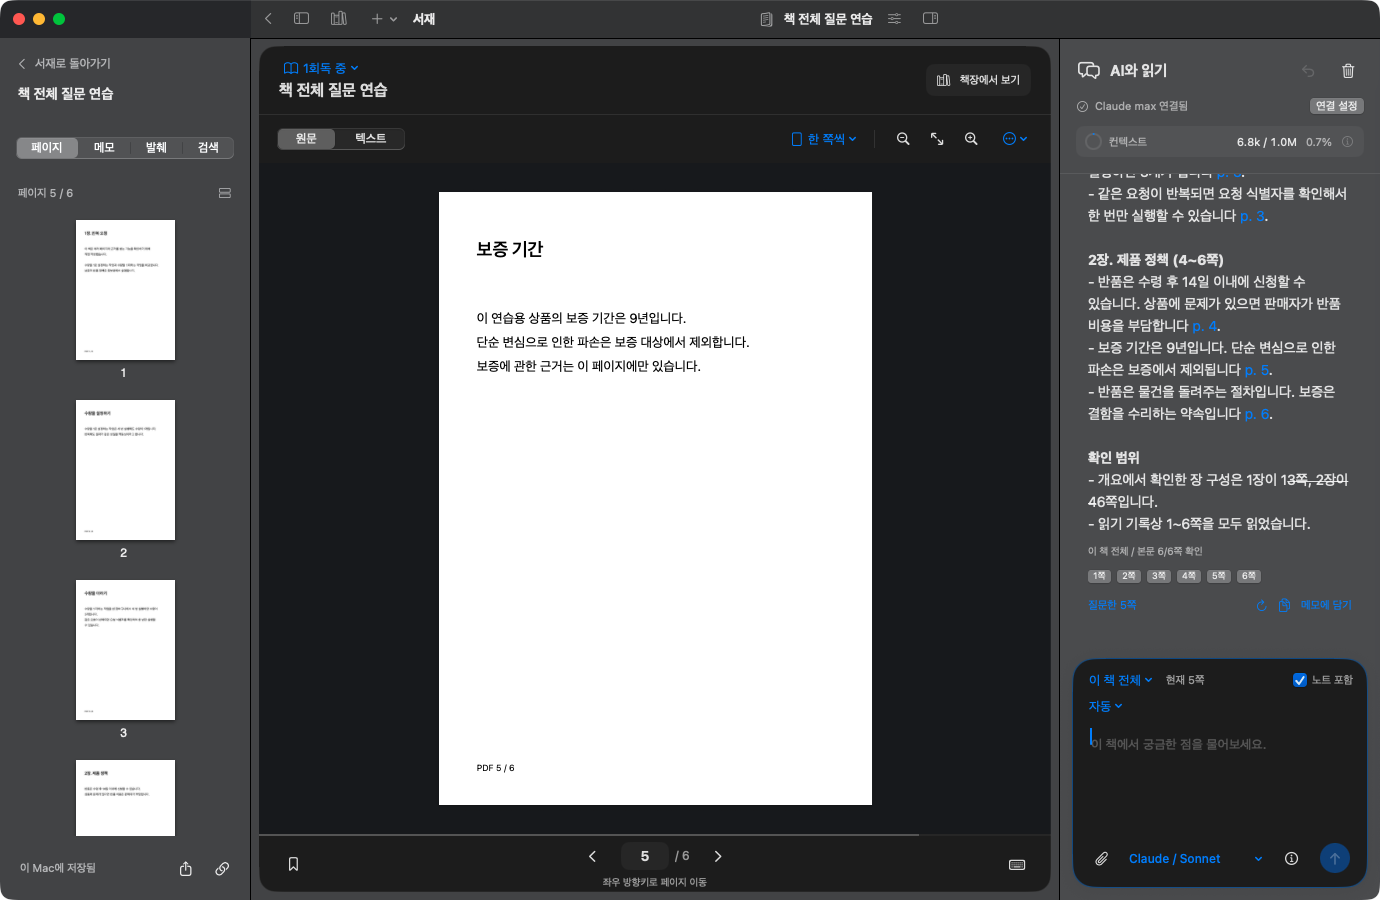
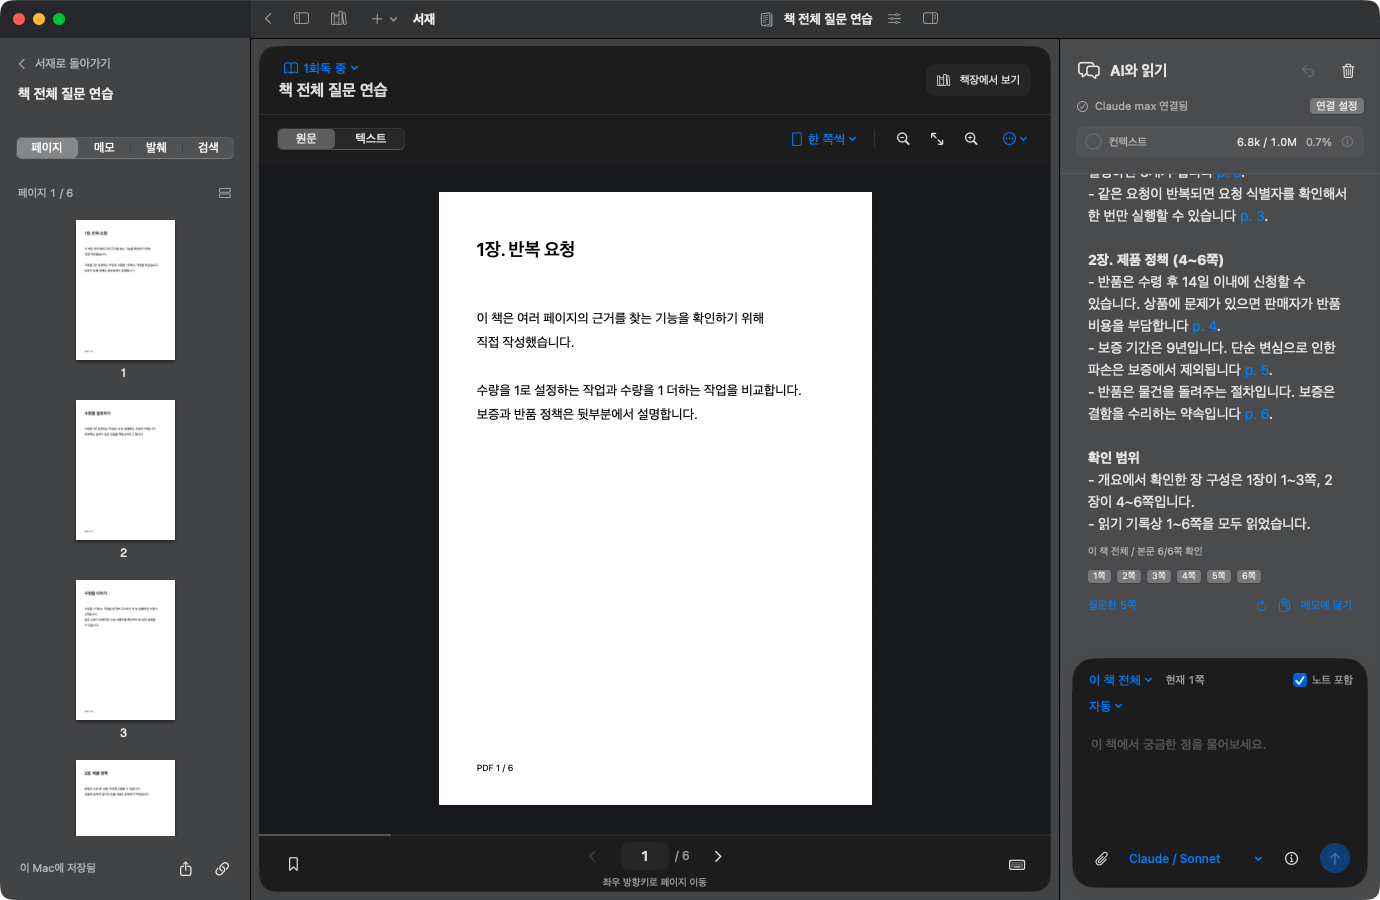
fix(chat): preserve numeric ranges and complete book tool results

diff --git a/Sources/BookshelfCore/ChatContent.swift b/Sources/BookshelfCore/ChatContent.swift
@@ -10,6 +10,19 @@ public struct ChatContentBlock: Identifiable, Equatable, Sendable {
 
 /// Preserve fenced content before inline Markdown processing can discard its boundaries.
 public enum ChatContent {
+    /// Foundation Markdown treats paired single tildes as strikethrough, including
+    /// Korean page ranges spanning paragraphs. Keep numeric ranges literal.
+    public static func markdownProse(_ text: String) -> String {
+        guard let regex = try? NSRegularExpression(pattern: #"(?<=[0-9])([ \t]*)~([ \t]*)(?=[0-9])"#) else { return text }
+        let original = text as NSString, result = NSMutableString(string: text)
+        let code = try? NSRegularExpression(pattern: #"(`+)[\s\S]*?\1"#)
+        let codeRanges = code?.matches(in: text, range: NSRange(location: 0, length: original.length)).map(\.range) ?? []
+        for match in regex.matches(in: text, range: NSRange(location: 0, length: original.length)).reversed() {
+            if codeRanges.contains(where: { NSIntersectionRange($0, match.range).length > 0 }) { continue }
+            result.replaceCharacters(in: match.range, with: original.substring(with: match.range).replacingOccurrences(of: "~", with: "\\~"))
+        }
+        return result as String
+    }
     public static func blocks(_ text: String) -> [ChatContentBlock] {
         let lines = text.components(separatedBy: .newlines)
         var result: [ChatContentBlock] = [], paragraph: [String] = [], index = 0

diff --git a/Tests/BookshelfCoreTests/ChatContentTests.swift b/Tests/BookshelfCoreTests/ChatContentTests.swift
@@ -2,6 +2,16 @@ import XCTest
 @testable import BookshelfCore
 
 final class ChatContentTests: XCTestCase {
+    func testNumericPageRangesDoNotStrikeOutTheAnswer() throws {
+        let text = "범위 1~3쪽입니다.\n\n다음은 4 ~ 6쪽입니다."
+        let rendered = try AttributedString(markdown: ChatContent.markdownProse(text), options: .init(interpretedSyntax: .inlineOnlyPreservingWhitespace))
+        XCTAssertEqual(String(rendered.characters), text)
+        XCTAssertFalse(rendered.runs.contains { $0.inlinePresentationIntent?.contains(.strikethrough) == true })
+        let intentional = try AttributedString(markdown: ChatContent.markdownProse("~~삭제할 문장~~"))
+        XCTAssertTrue(intentional.runs.contains { $0.inlinePresentationIntent?.contains(.strikethrough) == true })
+        let code = try AttributedString(markdown: ChatContent.markdownProse("`1~3` and ``4 ~ 6``"))
+        XCTAssertEqual(String(code.characters), "1~3 and 4 ~ 6")
+    }
     func testVisualFencesPreserveLinesAndTablesStayOutsideCode() {
         let text = """
         핵심 관계입니다.

diff --git a/Sources/BookshelfAgent/book-tools.test.ts b/Sources/BookshelfAgent/book-tools.test.ts
@@ -151,7 +151,7 @@ for (const backend of ["claude", "codex"] as const) {
 				backend === "claude"
 					? `
 if(process.argv.includes('status')){console.log(JSON.stringify({loggedIn:true,authMethod:'claude.ai',apiProvider:'firstParty'}));process.exit(0);}
-if(process.env.CLAUDE_CODE_DISABLE_CLAUDE_MDS!=='1'||process.env.CLAUDE_CODE_DISABLE_ATTACHMENTS!=='1')process.exit(2);
+if(process.env.CLAUDE_CODE_DISABLE_CLAUDE_MDS!=='1'||process.env.CLAUDE_CODE_DISABLE_ATTACHMENTS!=='1'||process.env.MAX_MCP_OUTPUT_TOKENS!=='64000')process.exit(2);
 process.stdin.resume();process.stdin.on('end',()=>{
 const emit=x=>console.log(JSON.stringify(x));
 emit({type:'system',subtype:'init',tools:${JSON.stringify(claudeBookTools)},mcp_servers:[{name:'bookshelf',status:'connected'}],skills:[]});

diff --git a/Sources/BookshelfApp/BookChatView.swift b/Sources/BookshelfApp/BookChatView.swift
@@ -339,6 +339,6 @@ struct ChatMarkdownText: View {
         }
     }
     private func inline(_ text: String) -> AttributedString {
-        (try? AttributedString(markdown: ChatCitations.linkedMarkdown(text, pages: sourcePages), options: .init(interpretedSyntax: .inlineOnlyPreservingWhitespace))) ?? AttributedString(text)
+        (try? AttributedString(markdown: ChatCitations.linkedMarkdown(ChatContent.markdownProse(text), pages: sourcePages), options: .init(interpretedSyntax: .inlineOnlyPreservingWhitespace))) ?? AttributedString(text)
     }
 }

diff --git a/Sources/BookshelfAgent/claude.ts b/Sources/BookshelfAgent/claude.ts
@@ -116,6 +116,8 @@ export async function claudeChat(
 				CLAUDE_CODE_DISABLE_CLAUDE_MDS: "1",
 				CLAUDE_CODE_DISABLE_AUTO_MEMORY: "1",
 				CLAUDE_CODE_DISABLE_ATTACHMENTS: "1",
+				// Preserve bounded CJK page chunks instead of the CLI truncating their JSON.
+				...(request.reading ? { MAX_MCP_OUTPUT_TOKENS: "64000" } : {}),
 			},
 		);
 		let text = "",

diff --git a/Resources/Design/PI-AGENT.md b/Resources/Design/PI-AGENT.md
@@ -73,10 +73,11 @@ The complete conversation is stored by Bookshelf. Each request includes at most 
 The app starts a private `reading-mcp` instance with a fixed book ID, library directory and
 page range. Four tools provide the outline, keyword search, paginated page reading and
 coverage. Neither the model nor tool arguments can change the book or filesystem path.
+Claude uses a per-tool output ceiling of 64,000 tokens so bounded CJK page chunks keep
+their complete JSON envelope. The server still limits reads to 24,000 characters per call.
 The whole-book scope is the default; narrower scopes exclude current-page text/selection
 outside the boundary and omit prior conversations with a different scope. Optional notes
-remain user reference material. Metadata from matching tool results creates source links;
-assistant text cannot invent a clickable source. Concurrent tool results merge coverage
+remain user reference material. Local PDF-page links only target pages confirmed by the app or matching tool results. Concurrent tool results merge coverage
 monotonically. Search excerpts do not count as full page reads, and unread/empty pages
 remain visible. Complete summaries must follow page continuations and check coverage.
 
@@ -135,7 +136,7 @@ The bridge is bundled, but the executors and Node runtime are not redistributed.
 
 ## Verification
 
-- All 59 Swift tests passed on macOS 26.6.2 / Apple Silicon with Swift 6.4. They cover persistence/undo conflicts, preserved unsent drafts, shortcuts, asset boundaries, generated-image validation/reopen/undo, bounded book retrieval, page continuations, source links, coverage persistence, MCP initialization, Markdown fences, renderer URLs, small pipe frames and stale replies on book switches.
+- All 60 Swift tests passed on macOS 26.6.2 / Apple Silicon with Swift 6.4. They cover persistence/undo conflicts, preserved unsent drafts, shortcuts, asset boundaries, generated-image validation/reopen/undo, bounded book retrieval, page continuations, source links, coverage persistence, MCP initialization, Markdown fences, renderer URLs, small pipe frames and stale replies on book switches.
 - All 20 Bun tests and the TypeScript check passed with Node 26.8.1 and Bun 1.4.0. They cover English instructions, automatic defaults, isolated executor profiles, explicit model forwarding, Pi/direct streaming, reading progress/source events, latest-response usage, image-only replies, large image events, duplicate images, failure/cancellation and billing guards. Linux CI verifies these credential-free paths and bundled notices.
 - Earlier tool-free Claude Max requests returned Korean and English explanations. The current reading profile exposed exactly four scoped bookshelf tools, one bookshelf MCP server and no skills. Live Claude requests retrieved a distant warranty passage, refused to infer its value after narrowing the scope to pages 1–3, and read all six fixture pages before summarizing both chapters.
 - On 2026-10-19, a fresh official Codex App Server process confirmed the app-owned ChatGPT subscription login. A native Pi/Codex request returned a 1312 by 1199 PNG plus a source-grounded explanation. The app displayed it, enlarged it, copied it, exported identical PNG bytes, and restored it after clear/undo and relaunch. The same book then continued through Claude Sonnet without losing the generated image. No credentials were copied.
